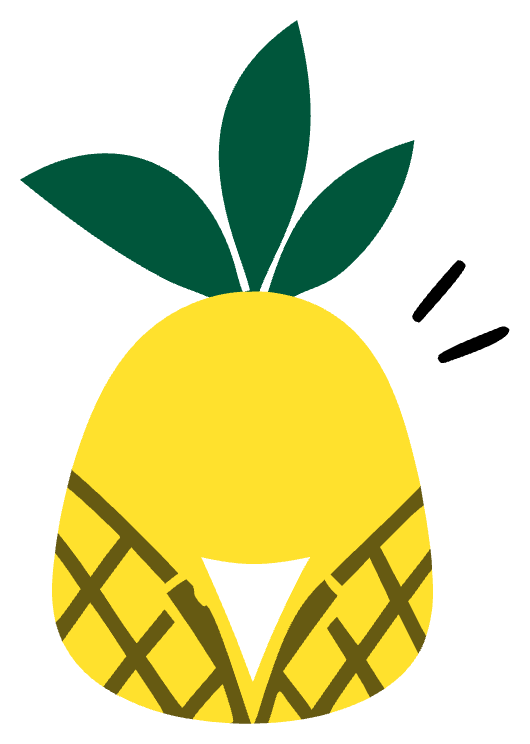
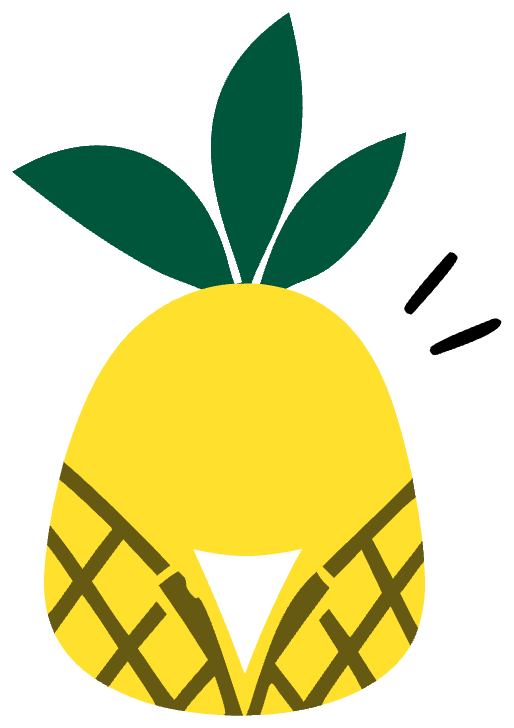
Thicken face features and remove white backdrop
Make eye/mouth strokes chunkier to match the source art, flood-fill
transparency from the canvas edges so the white V stays, and strip
the light halo around the silhouette.

diff --git a/src/pineappleAvatar.ts b/src/pineappleAvatar.ts
@@ -13,54 +13,54 @@ export interface PineappleAvatarHandle {
 
 /** Eye / mouth anchors as fractions of the cropped base art. */
 const FACE = {
-  left: { x: 0.3585, y: 0.5793 },
-  right: { x: 0.5981, y: 0.5726 },
-  mouth: { x: 0.4811, y: 0.6532 },
-  /** Eye pill size relative to art width */
-  eyeW: 0.038,
-  eyeH: 0.095,
+  left: { x: 0.3541, y: 0.581 },
+  right: { x: 0.6012, y: 0.5742 },
+  mouth: { x: 0.4805, y: 0.6566 },
+  /** Eye pill size relative to art width / height */
+  eyeW: 0.055,
+  eyeH: 0.11,
 };
 
 function eyeMarkup(mood: Mood, side: "left" | "right"): string {
   const id = side === "left" ? "L" : "R";
   if (mood === "happy") {
-    return `<path class="eye eye-${id}" d="M -7 2 Q 0 -8 7 2" fill="none" stroke="#111" stroke-width="3.2" stroke-linecap="round"/>`;
+    return `<path class="eye eye-${id}" d="M -8 3 Q 0 -9 8 3" fill="none" stroke="#111" stroke-width="5.5" stroke-linecap="round"/>`;
   }
   if (mood === "thinking") {
-    // smaller offset pupils / focused look
-    const ox = side === "left" ? 2.5 : 3.5;
-    return `<ellipse class="eye eye-${id}" cx="${ox}" cy="-1" rx="3.2" ry="7.5" fill="#111"/>`;
+    const ox = side === "left" ? 2.8 : 3.8;
+    return `<ellipse class="eye eye-${id}" cx="${ox}" cy="-1" rx="4.6" ry="8.5" fill="#111"/>`;
   }
-  // idle — vertical pills matching the original art
-  return `<rect class="eye eye-${id}" x="-3.2" y="-9" width="6.4" height="18" rx="3.2" fill="#111"/>`;
+  // idle — chunky vertical pills like the source art
+  return `<rect class="eye eye-${id}" x="-4.5" y="-10" width="9" height="20" rx="4.5" fill="#111"/>`;
 }
 
 function mouthMarkup(mood: Mood): string {
   if (mood === "happy") {
-    return `<path class="mouth" d="M -10 0 Q 0 10 10 0" fill="none" stroke="#111" stroke-width="2.4" stroke-linecap="round"/>`;
+    return `<path class="mouth" d="M -11 0 Q 0 11 11 0" fill="none" stroke="#111" stroke-width="4.8" stroke-linecap="round"/>`;
   }
   if (mood === "thinking") {
-    return `<path class="mouth" d="M -6 2 Q 0 0 6 3" fill="none" stroke="#111" stroke-width="2.2" stroke-linecap="round"/>`;
+    return `<path class="mouth" d="M -7 2 Q 0 0 7 3" fill="none" stroke="#111" stroke-width="4.4" stroke-linecap="round"/>`;
   }
-  return `<path class="mouth" d="M -8 0 Q 0 7 8 0" fill="none" stroke="#111" stroke-width="2.2" stroke-linecap="round"/>`;
+  return `<path class="mouth" d="M -9 0 Q 0 8 9 0" fill="none" stroke="#111" stroke-width="4.4" stroke-linecap="round"/>`;
 }
 
 function renderFace(mood: Mood, gazeX: number, gazeY: number): string {
   const gx = gazeX * 5;
   const gy = gazeY * 4;
   const { left, right, mouth, eyeW, eyeH } = FACE;
-  // SVG overlay uses viewBox 0 0 100 100 matching the art box
   const to = (p: { x: number; y: number }) => ({ x: p.x * 100, y: p.y * 100 });
   const L = to(left);
   const R = to(right);
   const M = to(mouth);
-  const scale = eyeW * 100; // ~3.8 → scale eyes in local units where pill is ~6.4 wide
+  // Local eye drawing is 9 units wide; scale to FACE.eyeW of the viewBox
+  const eyeScale = (eyeW * 100) / 9;
+  const mouthScale = (eyeH * 100) / 20;
 
   return `
     <g class="gaze" transform="translate(${gx} ${gy})">
-      <g transform="translate(${L.x} ${L.y}) scale(${(scale / 6.4).toFixed(3)})">${eyeMarkup(mood, "left")}</g>
-      <g transform="translate(${R.x} ${R.y}) scale(${(scale / 6.4).toFixed(3)})">${eyeMarkup(mood, "right")}</g>
-      <g transform="translate(${M.x} ${M.y}) scale(${(eyeH * 100 / 18).toFixed(3)})">${mouthMarkup(mood)}</g>
+      <g transform="translate(${L.x} ${L.y}) scale(${eyeScale.toFixed(3)})">${eyeMarkup(mood, "left")}</g>
+      <g transform="translate(${R.x} ${R.y}) scale(${eyeScale.toFixed(3)})">${eyeMarkup(mood, "right")}</g>
+      <g transform="translate(${M.x} ${M.y}) scale(${mouthScale.toFixed(3)})">${mouthMarkup(mood)}</g>
     </g>
   `;
 }
